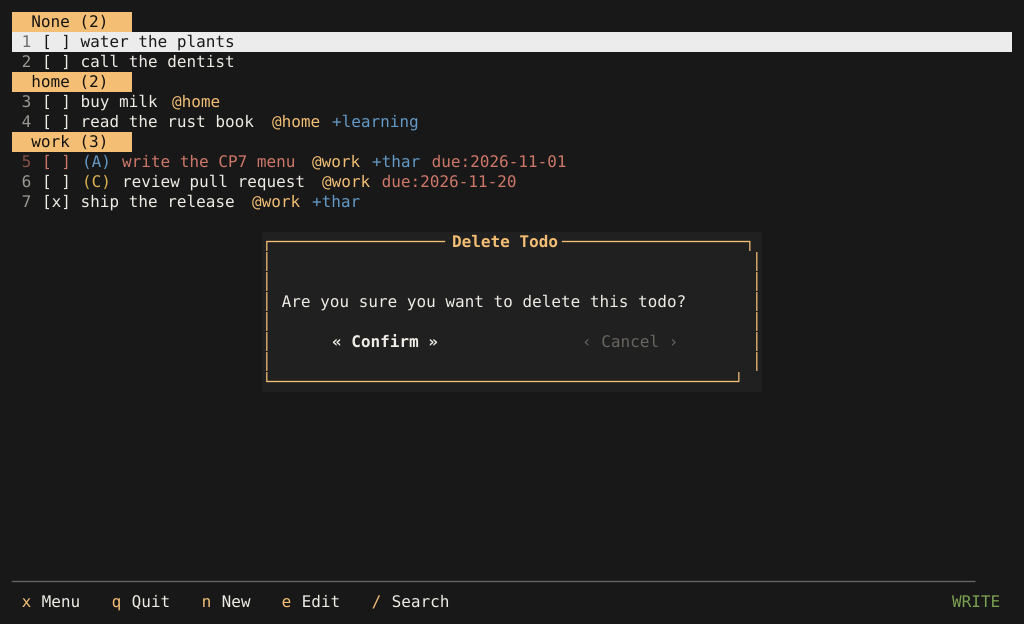
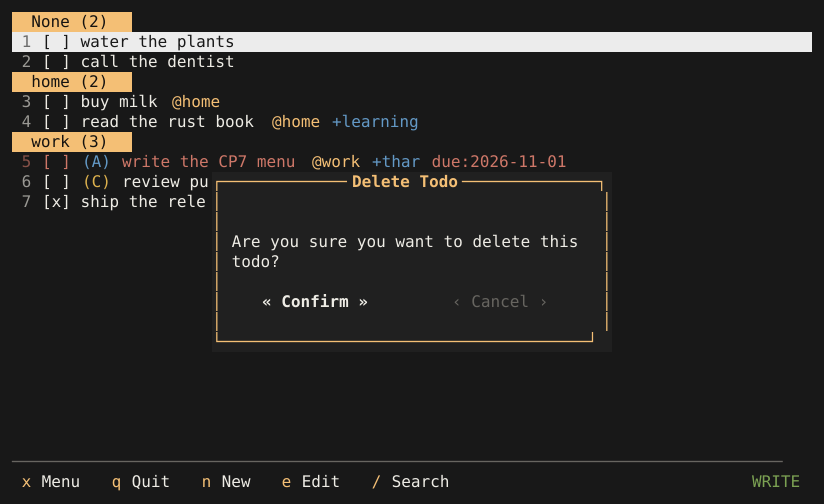
fix(tui): keep confirm/update buttons inside the modal frame
Buttons were laid out across the full modal width, so at 80x24 the third
update button overwrote the right border (and at very narrow sizes both
borders). Lay them out inside the body with one pad column and fall back to
the bare label when the decorated label does not fit.

Also make the padding test real: assert the pad/border pillars for every body
row, add an 80x24 update golden and an 80x24 PTY confirmation test, and
regenerate the asset at the size where the bug is visible.

diff --git a/crates/thar-tui/src/modal/confirm.rs b/crates/thar-tui/src/modal/confirm.rs
@@ -174,12 +174,12 @@ impl ConfirmModal {
         }
     }
 
-    /// Relative cell column inside the modal for a 1-based mouse column.
+    /// Relative cell column inside the modal body for a 1-based mouse column.
     fn relative_column(&self, rect: ModalRect, mouse: MouseInput) -> Option<u16> {
         let column = mouse.x.checked_sub(1)?;
-        let start = rect.area.x;
-        let end = rect.area.x.saturating_add(rect.area.width);
-        (start..end).contains(&column).then_some(column - start)
+        let start = rect.body.x;
+        let end = start.saturating_add(rect.body.width);
+        (start..end).contains(&column).then(|| column - start)
     }
 
     /// Label-exact hover hit test, matching `getHoveredButtonIndex`.
@@ -188,20 +188,22 @@ impl ConfirmModal {
         if row != self.button_row() {
             return None;
         }
-        let column = self.relative_column(rect, mouse)?;
+        // The body has one pad column, so the labels start one cell in.
+        let column = self.relative_column(rect, mouse)?.checked_sub(1)?;
 
-        let modal_width = rect.area.width;
-        let left_half = modal_width / 2;
-        let right_half = modal_width - left_half;
+        let content_width = rect.body.width.saturating_sub(2);
+        let left_half = content_width / 2;
+        let right_half = content_width - left_half;
         for (index, label) in BUTTON_LABELS.iter().enumerate() {
             let rendered = format!("« {label} »");
-            let label_width = u16::try_from(rendered.chars().count()).unwrap_or(modal_width);
-            let (start, width) = if index == 0 {
+            let label_width = u16::try_from(rendered.chars().count()).unwrap_or(content_width);
+            let (section_start, section_width) = if index == 0 {
                 (0, left_half)
             } else {
                 (left_half, right_half)
             };
-            let offset = start.saturating_add(width.saturating_sub(label_width) / 2);
+            let offset =
+                section_start.saturating_add(section_width.saturating_sub(label_width) / 2);
             let end = offset.saturating_add(label_width);
             if (offset..end).contains(&column) {
                 return Some(index);
@@ -279,7 +281,7 @@ impl Modal for ConfirmModal {
                 let Some(column) = self.relative_column(rect, mouse) else {
                     return Outcome::Continue;
                 };
-                let index = if column < rect.area.width / 2 { 0 } else { 1 };
+                let index = if column < rect.body.width / 2 { 0 } else { 1 };
                 self.hovered = Some(index);
                 self.selected = index;
                 self.activate(index)
@@ -313,9 +315,10 @@ impl Modal for ConfirmModal {
         if button_y >= rect.body.y.saturating_add(rect.body.height) {
             return;
         }
-        let modal_width = rect.area.width;
-        let left_half = modal_width / 2;
-        let right_half = modal_width - left_half;
+        let content_left = rect.body.x.saturating_add(1);
+        let content_width = rect.body.width.saturating_sub(2);
+        let left_half = content_width / 2;
+        let right_half = content_width - left_half;
 
         for (index, label) in BUTTON_LABELS.iter().enumerate() {
             let active = self.selected == index || self.hovered == Some(index);
@@ -324,19 +327,16 @@ impl Modal for ConfirmModal {
             } else {
                 format!("‹ {label} ›")
             };
-            let label_width = u16::try_from(rendered.chars().count()).unwrap_or(modal_width);
+            let label_width = u16::try_from(rendered.chars().count()).unwrap_or(content_width);
             let (half_start, half_width) = if index == 0 {
                 (0, left_half)
             } else {
                 (left_half, right_half)
             };
             let offset = half_start.saturating_add(half_width.saturating_sub(label_width) / 2);
-            let area = Rect::new(
-                rect.area.x.saturating_add(offset),
-                button_y,
-                label_width.min(rect.area.width.saturating_sub(offset)),
-                1,
-            );
+            let width = label_width.min(content_width.saturating_sub(offset));
+            let area = Rect::new(content_left.saturating_add(offset), button_y, width, 1);
+            let text: String = rendered.chars().take(usize::from(width)).collect();
             let color = if self.hovered == Some(index) {
                 theme::WARNING
             } else if self.selected == index {
@@ -350,7 +350,7 @@ impl Modal for ConfirmModal {
                 Modifier::empty()
             });
             frame.render_widget(
-                Paragraph::new(Span::styled(rendered, style)).alignment(Alignment::Center),
+                Paragraph::new(Span::styled(text, style)).alignment(Alignment::Center),
                 area,
             );
         }

diff --git a/crates/thar-tui/src/modal/update.rs b/crates/thar-tui/src/modal/update.rs
@@ -245,18 +245,18 @@ impl UpdateModal {
         }
     }
 
-    /// Relative cell column inside the modal for a 1-based mouse column.
+    /// Relative cell column inside the modal body for a 1-based mouse column.
     fn relative_column(&self, rect: ModalRect, mouse: MouseInput) -> Option<u16> {
         let column = mouse.x.checked_sub(1)?;
-        let start = rect.area.x;
-        let end = rect.area.x.saturating_add(rect.area.width);
-        (start..end).contains(&column).then_some(column - start)
+        let start = rect.body.x;
+        let end = start.saturating_add(rect.body.width);
+        (start..end).contains(&column).then(|| column - start)
     }
 
     /// Proportional action index for a relative cell column.
     fn index_at(&self, rect: ModalRect, column: u16) -> usize {
         let actions = self.actions().len().max(1);
-        let width = usize::from(rect.area.width.max(1));
+        let width = usize::from(rect.body.width.max(1));
         let column = usize::from(column);
         (column * actions / width).min(actions - 1)
     }
@@ -380,8 +380,9 @@ impl Modal for UpdateModal {
 
         let actions = self.actions();
         let count = u16::try_from(actions.len()).unwrap_or(1).max(1);
-        let modal_width = rect.area.width;
-        let half = modal_width / count;
+        let content_left = rect.body.x.saturating_add(1);
+        let content_width = rect.body.width.saturating_sub(2);
+        let span = content_width / count;
 
         for (index, action) in actions.iter().enumerate() {
             let active = self.selected == index || self.hovered == Some(index);
@@ -391,20 +392,21 @@ impl Modal for UpdateModal {
             } else {
                 format!("‹ {label} ›")
             };
-            let label_width = u16::try_from(rendered.chars().count()).unwrap_or(modal_width);
-            let offset = u16::try_from(index).unwrap_or(0).saturating_mul(half);
+            let offset = u16::try_from(index).unwrap_or(0).saturating_mul(span);
             let width = if index + 1 == actions.len() {
-                modal_width.saturating_sub(offset)
+                content_width.saturating_sub(offset)
             } else {
-                half
+                span
             };
-            let inner = offset.saturating_add(width.saturating_sub(label_width) / 2);
-            let area = Rect::new(
-                rect.area.x.saturating_add(inner),
-                button_y,
-                label_width.min(rect.area.width.saturating_sub(inner)),
-                1,
-            );
+            // If the decorated label does not fit, fall back to the bare label;
+            // a tiny terminal clips rather than painting over the frame.
+            let text = if u16::try_from(rendered.chars().count()).unwrap_or(u16::MAX) <= width {
+                rendered
+            } else {
+                label.to_owned()
+            };
+            let text: String = text.chars().take(usize::from(width)).collect();
+            let area = Rect::new(content_left.saturating_add(offset), button_y, width, 1);
             let color = if self.hovered == Some(index) {
                 theme::WARNING
             } else if self.selected == index {
@@ -418,7 +420,7 @@ impl Modal for UpdateModal {
                 Modifier::empty()
             });
             frame.render_widget(
-                Paragraph::new(Span::styled(rendered, style)).alignment(Alignment::Center),
+                Paragraph::new(Span::styled(text, style)).alignment(Alignment::Center),
                 area,
             );
         }

diff --git a/crates/thar-tui/tests/golden_cp7_menu.rs b/crates/thar-tui/tests/golden_cp7_menu.rs
@@ -79,6 +79,21 @@ fn body_row(app: &App, backend: &TestBackend, row: u16) -> String {
         .to_owned()
 }
 
+/// Assert the frame is intact and every body row keeps its pad column.
+fn assert_modal_pillars(screen: &[String], rect: geometry::ModalRect) {
+    let left_border = usize::from(rect.area.x);
+    let left_pad = left_border + 1;
+    let right_border = usize::from(rect.area.x + rect.area.width - 1);
+    let right_pad = right_border - 1;
+    for y in rect.body.y..rect.body.y + rect.body.height {
+        let line: Vec<char> = screen[usize::from(y)].chars().collect();
+        assert_eq!(line[left_border], '│', "left border at row {y}");
+        assert_eq!(line[left_pad], ' ', "left padding at row {y}");
+        assert_eq!(line[right_pad], ' ', "right padding at row {y}");
+        assert_eq!(line[right_border], '│', "right border at row {y}");
+    }
+}
+
 fn cell(backend: &TestBackend, x: u16, y: u16) -> (String, Option<Color>) {
     let cell = &backend.buffer()[(x, y)];
     (cell.symbol().to_owned(), cell.style().fg)
@@ -259,6 +274,7 @@ fn eighty_by_twenty_four_wraps_the_single_delete_message_without_truncation() {
         screen[button_row].contains("« Confirm »") && screen[button_row].contains("‹ Cancel ›"),
         "buttons are not on the row after the message: {screen:#?}"
     );
+    assert_modal_pillars(&screen, rect);
 }
 
 #[test]
@@ -301,14 +317,6 @@ fn one_hundred_by_thirty_pins_the_update_screen() {
             .iter()
             .any(|line| line.contains("https://github.com/ArnoNuyts/thar/releases/tag/v0.5.0"))
     );
-    let release = screen
-        .iter()
-        .find(|line| line.contains("releases/tag/v0.5.0"))
-        .expect("release URL row");
-    assert!(
-        release.trim_end().ends_with(" │"),
-        "the update content touches the right border: {release:?}"
-    );
     let buttons = screen
         .iter()
         .find(|line| line.contains('«'))
@@ -316,6 +324,36 @@ fn one_hundred_by_thirty_pins_the_update_screen() {
     assert!(buttons.contains("« Update now »"), "{buttons:?}");
     assert!(buttons.contains("‹ Later ›"), "{buttons:?}");
     assert!(buttons.contains("‹ Skip this version ›"), "{buttons:?}");
+    assert_modal_pillars(&screen, rect);
+}
+
+#[test]
+fn eighty_by_twenty_four_update_keeps_the_buttons_inside_the_frame() {
+    let mut app = app(&["one"]);
+    app.resize(80, 24);
+    app.update_model = Some(UpdateModel {
+        current_version: "0.4.0".to_owned(),
+        latest_version: Some("0.5.0".to_owned()),
+        install_kind: InstallKind::NpmGlobal,
+        command: "npm install -g @arnoarnoarno/thar@latest".to_owned(),
+        release_url: "https://github.com/ArnoNuyts/thar/releases/tag/v0.5.0".to_owned(),
+        can_self_update: true,
+    });
+    app.open_modal(thar_tui::ModalId::Update);
+    let backend = draw(&app, 80, 24);
+    let rect = modal_area(&app);
+    let screen = screen_lines(&backend);
+
+    // The three buttons must stay between the pad columns at the narrow size;
+    // the long Skip label falls back to its bare text instead of the border.
+    assert_modal_pillars(&screen, rect);
+    let buttons = screen
+        .iter()
+        .find(|line| line.contains("Later"))
+        .expect("a button row");
+    assert!(buttons.contains("Update now"), "{buttons:?}");
+    assert!(buttons.contains("Later"), "{buttons:?}");
+    assert!(buttons.contains("Skip this version"), "{buttons:?}");
 }
 
 #[test]

diff --git a/crates/thar-cli/tests/pty/session.rs b/crates/thar-cli/tests/pty/session.rs
@@ -129,6 +129,17 @@ impl Session {
         Self::spawn(directory, &args, environment)
     }
 
+    /// Run `thar-rs --write --file <file>` at an explicit terminal size.
+    pub fn open_write_sized(file: &Path, cols: u16, rows: u16) -> Self {
+        let directory = file.parent().unwrap_or_else(|| Path::new("."));
+        let args = [
+            OsStr::new("--write"),
+            OsStr::new("--file"),
+            file.as_os_str(),
+        ];
+        Self::spawn_sized(directory, &args, &[], cols, rows)
+    }
+
     /// Run `thar-rs` with no arguments in `directory` (the default
     /// `./todo.txt` path).
     pub fn start(directory: &Path, environment: &[(&str, &str)]) -> Self {
@@ -136,10 +147,20 @@ impl Session {
     }
 
     fn spawn(directory: &Path, args: &[&OsStr], environment: &[(&str, &str)]) -> Self {
+        Self::spawn_sized(directory, args, environment, COLS, ROWS)
+    }
+
+    fn spawn_sized(
+        directory: &Path,
+        args: &[&OsStr],
+        environment: &[(&str, &str)],
+        cols: u16,
+        rows: u16,
+    ) -> Self {
         let pair = native_pty_system()
             .openpty(PtySize {
-                rows: ROWS,
-                cols: COLS,
+                rows,
+                cols,
                 pixel_width: 0,
                 pixel_height: 0,
             })
@@ -173,8 +194,8 @@ impl Session {
 
         let mut reader = pair.master.try_clone_reader().expect("clone the reader");
         let writer = pair.master.take_writer().expect("take the writer");
-        let rows = NonZeroU16::new(ROWS).expect("ROWS is non-zero");
-        let cols = NonZeroU16::new(COLS).expect("COLS is non-zero");
+        let rows = NonZeroU16::new(rows).expect("rows is non-zero");
+        let cols = NonZeroU16::new(cols).expect("cols is non-zero");
         let output = Arc::new(Mutex::new(Output {
             parser: Parser::new(rows, cols, 0),
             raw: Vec::new(),

diff --git a/crates/thar-cli/tests/pty/cp7_menu.rs b/crates/thar-cli/tests/pty/cp7_menu.rs
@@ -7,6 +7,7 @@
 //!
 //! ```sh
 //! cargo test -p thar-cli --test pty -- --ignored cp7_menu_screenshot
+//! cargo test -p thar-cli --test pty -- --ignored cp7_modal_padding_screenshot
 //! ```
 
 use crate::screenshot::{asset_path, rasterize, svg};
@@ -201,11 +202,43 @@ fn cp7_menu_screenshot() {
 }
 
 #[test]
+fn the_delete_confirmation_at_80x24_keeps_a_pad_before_the_right_border() {
+    let directory = TempDir::new("cp7-modal-padding-80");
+    let path = directory.write("todo.txt", b"one\ntwo\n");
+    let mut session = Session::open_write_sized(&path, 80, 24);
+
+    session.wait_text("WRITE");
+    session.wait_todo_text("one");
+    session.send(b"\x1b[3~"); // Delete
+    session.wait_text("Delete Todo");
+
+    let snapshot = session.snapshot();
+    let line = snapshot
+        .text
+        .lines()
+        .find(|line| line.contains("delete this"))
+        .unwrap_or_else(|| panic!("no wrapped message:\n{}", snapshot.text));
+    assert!(
+        line.trim_end().ends_with("this │"),
+        "the message touches the right border: {line:?}"
+    );
+    assert!(
+        !line.contains("this│"),
+        "no pad before the border: {line:?}"
+    );
+
+    session.send(b"\x1b");
+    session.wait_no_text("Delete Todo");
+    session.send(b"q");
+    assert_eq!(session.wait_exit(TIMEOUT).exit_code(), 0);
+}
+
+#[test]
 #[ignore = "manual asset generator: regenerates docs/rust-port/assets/cp7-modal-padding.png"]
 fn cp7_modal_padding_screenshot() {
     let directory = TempDir::new("cp7-modal-padding");
     let path = directory.write("todo.txt", FIXTURE.as_bytes());
-    let mut session = Session::open_write(&path);
+    let mut session = Session::open_write_sized(&path, 80, 24);
 
     session.wait_text("WRITE");
     session.wait_todo_text("water the plants");
